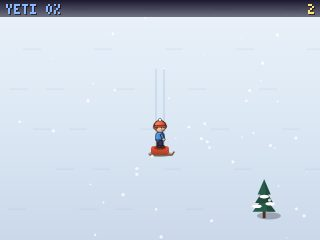
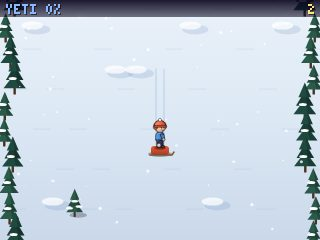
Round 31 batch 3 (v74): cabinet reel, calmer Arcade glow, Yeti Escape forest and moguls
Claude-Session: https://claude.ai/code/session_01ThWvxu2oGGko6tXgypc1y8

diff --git a/sw.js b/sw.js
@@ -1,5 +1,5 @@
 // Pixel Arcade service worker: installable app + offline play. Generated from sw.template.js by tools/make_pwa.py.
-const VERSION = '36d4cc078b';
+const VERSION = 'e4e1be4010';
 const CORE = ["./", "index.html", "manifest.webmanifest", "style.css", "docs/icons/apple-touch-icon.png", "docs/icons/favicon-64.png", "docs/icons/icon-1024.png", "docs/icons/icon-192.png", "docs/icons/icon-512.png", "docs/icons/maskable-512.png", "fonts/OFL-Anton.txt", "fonts/OFL-AtkinsonHyperlegibleNext.txt", "fonts/OFL-JetBrainsMono.txt", "fonts/anton-400.woff2", "fonts/atkinson-next-400.woff2", "fonts/atkinson-next-700.woff2", "fonts/atkinson-next-800.woff2", "fonts/fonts.css", "fonts/jetbrains-mono-400.woff2", "fonts/jetbrains-mono-700.woff2", "fonts/pa-pixel.woff2", "games/action.js", "games/action2.js", "games/action3.js", "games/advanced1.js", "games/advanced2.js", "games/arcade4.js", "games/arcade5.js", "games/board2.js", "games/cards.js", "games/classics1.js", "games/classics2.js", "games/classics3.js", "games/classics4.js", "games/finale.js", "games/frontier.js", "games/misc6.js", "games/more.js", "games/orchard.js", "games/party.js", "games/popular1.js", "games/popular2.js", "games/popular3.js", "games/popular4.js", "games/popular5.js", "games/powerup.js", "games/puzzle.js", "games/puzzle2.js", "games/puzzle3.js", "games/puzzle4.js", "games/puzzle5.js", "games/retro4.js", "games/retro5.js", "games/roadside.js", "games/rush.js", "games/saga.js", "games/seasons.js", "games/sim.js", "games/skyway.js", "games/solo.js", "games/space1.js", "games/sports1.js", "games/sports2.js", "games/sports3.js", "games/sports4.js", "games/sports5.js", "games/sports6.js", "games/tabletop.js", "games/threed.js", "games/threed2.js", "games/threed3.js", "games/threed4.js", "games/threed5.js", "games/townsfolk.js", "games/versus2.js", "games/versus3.js", "games/versus4.js", "games/versus5.js", "games/voyage.js", "js/arcade-scene.js", "js/cabinet3d.js", "js/carts.js", "js/console.js", "js/fx.js", "js/fx3d.js", "js/gx.js", "js/intro.js", "js/lobby.js", "js/net.js", "js/sfxbank.js", "js/spot.js", "js/engine/00-core.js", "js/engine/01-draw.js", "js/engine/02-pseudo3d.js", "js/engine/03-person.js", "js/engine/04-audio.js", "js/engine/05-fx.js", "js/engine/06-input.js", "js/engine/07-session.js", "js/engine/08-scores.js", "js/engine/09-clock.js", "js/engine/10-cards.js", "js/engine/11-loop.js", "js/engine/12-hub.js", "js/engine/13-filter.js", "js/kit3d/audio.js", "js/kit3d/input.js", "js/kit3d/paint.js", "js/kit3d/place.js", "js/kit3d/reflect.js", "js/kit3d/score.js", "js/kit3d/ui.js", "sfx/LICENSE.txt", "sfx/back_001.mp3", "sfx/blaster.mp3", "sfx/blaster_repeater.mp3", "sfx/break.mp3", "sfx/click_001.mp3", "sfx/coin.mp3", "sfx/confirmation_001.mp3", "sfx/confirmation_002.mp3", "sfx/confirmation_003.mp3", "sfx/confirmation_004.mp3", "sfx/drop_001.mp3", "sfx/enemy_destroy.mp3", "sfx/enemy_hurt.mp3", "sfx/engine.mp3", "sfx/error_003.mp3", "sfx/error_005.mp3", "sfx/error_006.mp3", "sfx/explosion_crunch_000.mp3", "sfx/explosion_crunch_001.mp3", "sfx/explosion_crunch_002.mp3", "sfx/explosion_crunch_003.mp3", "sfx/footstep_concrete_000.mp3", "sfx/footstep_concrete_001.mp3", "sfx/footstep_concrete_002.mp3", "sfx/footstep_concrete_003.mp3", "sfx/footstep_grass_000.mp3", "sfx/footstep_grass_001.mp3", "sfx/footstep_grass_002.mp3", "sfx/footstep_grass_003.mp3", "sfx/force_field_000.mp3", "sfx/glass_002.mp3", "sfx/impact.mp3", "sfx/impact_generic_light_000.mp3", "sfx/impact_generic_light_001.mp3", "sfx/impact_glass_medium_000.mp3", "sfx/impact_metal_heavy_000.mp3", "sfx/impact_metal_heavy_001.mp3", "sfx/impact_metal_heavy_002.mp3", "sfx/impact_metal_light_000.mp3", "sfx/impact_plate_light_000.mp3", "sfx/impact_punch_medium_000.mp3", "sfx/impact_punch_medium_001.mp3", "sfx/impact_punch_medium_002.mp3", "sfx/impact_soft_heavy_000.mp3", "sfx/impact_soft_heavy_001.mp3", "sfx/impact_wood_heavy_000.mp3", "sfx/jump.mp3", "sfx/jump_a.mp3", "sfx/jump_b.mp3", "sfx/jump_c.mp3", "sfx/land.mp3", "sfx/laser_retro_000.mp3", "sfx/laser_retro_001.mp3", "sfx/laser_small_000.mp3", "sfx/laser_small_001.mp3", "sfx/laser_small_002.mp3", "sfx/low_frequency_explosion_000.mp3", "sfx/maximize_001.mp3", "sfx/maximize_002.mp3", "sfx/maximize_003.mp3", "sfx/maximize_004.mp3", "sfx/placement-a.mp3", "sfx/placement-b.mp3", "sfx/pluck_001.mp3", "sfx/select_001.mp3", "sfx/select_002.mp3", "sfx/select_003.mp3", "sfx/skid.mp3", "sfx/switch_002.mp3", "sfx/thruster_fire_000.mp3", "sfx/tick_001.mp3", "sfx/tick_002.mp3", "sfx/tile-match.mp3", "sfx/tile-swap.mp3", "sfx/toggle_001.mp3", "sfx/weapon_change.mp3"];
 const SHELL = 'pa-shell-' + VERSION, RUNTIME = 'pa-runtime';
 self.addEventListener('install', e => {

diff --git a/games/frontier.js b/games/frontier.js
@@ -324,7 +324,11 @@ A.add({id:'yetiescape',name:'YETI ESCAPE',cat:'CLASSICS',tags:'sled snow downhil
    else if(Math.abs(o.x-x)<(o.k==='t'?9:8)*(o.s||1)&&Math.abs(o.y-148)<8){o.hit=1;S('hit');A.shake=5;yeti+=34;spd=1;vx=-vx;fx.debris(x,148,'#ffffff',12,2);fx.pop(x,130,'CRASH!','#ff8a7a');}}
   ob=ob.filter(o=>o.y>-30);yeti=Math.max(-60,yeti-.04);g.score+=t%20===0?1:0;if(yeti>120){g.over='CAUGHT BY THE YETI';S('lose');}
   trail.unshift(x);if(trail.length>40)trail.pop();for(const f of flk){f.y-=spd*.3*f.s-1;f.x+=Math.sin(t*.02+f.s)*.4;if(f.y>H)f.y=0;if(f.y<0)f.y=H;}};
- g.draw=()=>{const c=A.c;X.vg(0,0,W,H,['#eaf2fa','#dce8f4','#cad8ea']);const o=(t*spd)%40;c.fillStyle='rgba(150,180,210,.18)';for(let i=-1;i<8;i++)for(let k=0;k<5;k++)c.fillRect((k*71+i*23)%W,i*40-o+20,18,1.2);
+ g.draw=()=>{const c=A.c;X.vg(0,0,W,H,['#eaf2fa','#dce8f4','#cad8ea']);const o=(t*spd)%40,dd=t*spd;c.fillStyle='rgba(150,180,210,.18)';for(let i=-1;i<8;i++)for(let k=0;k<5;k++)c.fillRect((k*71+i*23)%W,i*40-o+20,18,1.2);
+  // moguls: soft lit bumps with blue shadow sides, scrolling with the slope
+  if(lo())for(let i=-1;i<7;i++){const row=Math.floor(dd/44)+i,y=i*44-(dd%44)+30;for(let k=0;k<4;k++){const hx=hash(row,k),mx=30+hx*(W-60);if(hash(k,row)<.45)continue;X.ell(mx+3,y+3,13,5,'rgba(120,150,200,.22)');X.ell(mx-2,y-1,11,4,'rgba(255,255,255,.75)');}}
+  // pine forest walls down both edges, darker and denser further out
+  const edge=(side)=>{for(let i=-1;i<11;i++){const row=Math.floor(dd/26)+i,y=i*26-(dd%26)+10,hx=hash(row,side*7+3);const ex=side<0?4+hx*12:W-4-hx*12;pine(ex,y+20,26+hx*10,hx>.5?'#1f4a40':'#2a5a4a');X.ell(ex-2,y+4,4,1.5,'#ffffff');}};if(lo()){edge(-1);edge(1);}
   c.strokeStyle='rgba(140,170,210,.45)';c.lineWidth=1;for(const off of[-4,4]){c.beginPath();trail.forEach((tx,i)=>{const y=148-i*spd;i?c.lineTo(tx+off,y):c.moveTo(tx+off,y);});c.stroke();}
   for(const o of ob){if(o.k==='f'){for(const fx2 of[o.x,o.x+50]){X.rr(fx2,o.y-14,1.4,14,0,'#3a3a3a');X.poly([[fx2+1,o.y-14],[fx2+9,o.y-11],[fx2+1,o.y-8]],o.pass?'#7dff9a':'#ff4a4a');}}else if(o.k==='t'){c.save();c.translate(o.x,o.y);c.scale(o.s,o.s);X.shadow(4,2,10,3,.25);pine(0,4,30,'#2a5a4a');for(const[a,b]of[[-6,-6],[0,-14],[5,-8]])X.ell(a,b,4,1.5,'#ffffff');c.restore();}else{X.shadow(o.x+2,o.y+3,8*o.s,2.5,.25);X.disc(o.x,o.y,6*o.s,X.rg(o.x-2,o.y-2,1,o.x,o.y,6*o.s,['#9aa0aa','#6a7080','#4a5060']));X.ell(o.x,o.y-4*o.s,5*o.s,2,'#ffffff');}}
   c.save();c.translate(x,148);c.rotate(vx*.08);X.shadow(0,6,12,3,.3);X.rr(-9,-2,18,9,3,X.lg(0,-2,0,7,['#e85a3a','#a83a24']));X.stroke([[-10,7],[12,7],[14,4]],'#7a5430',1.4);hero(0,0,{s:.85,top:'#3a8ad8',bot:'#2a2a4a',hat:'beanie',hatC:'#ff6a3a',style:4,hair:'#c86a2a',seed:12,bob:0,arm:-.4,mood:yeti>60?'o':'happy'});c.restore();

diff --git a/js/engine/13-filter.js b/js/engine/13-filter.js
@@ -76,10 +76,10 @@ function arcade(){const c=A.c,cv=c.canvas,w=cv.width,h=cv.height;if(!w||!h)retur
   fx.globalCompositeOperation='source-over';c.globalCompositeOperation='lighter';c.globalAlpha=.16;const d=Math.max(1,w/640);c.drawImage(fr,d,0,w,h);
   fx.globalCompositeOperation='copy';fx.drawImage(cv,0,0,320,240);fx.globalCompositeOperation='multiply';fx.fillStyle='#0038ff';fx.fillRect(0,0,320,240);c.globalAlpha=.12;c.drawImage(fr,-d,0,w,h);fx.globalCompositeOperation='source-over';}
  // halation: a blurred bright-pass of the picture, screened back over it
- gx.globalCompositeOperation='copy';if('filter' in gx){gx.filter='brightness(.9) contrast(1.9) blur(3px)';gx.drawImage(cv,0,0,160,120);gx.filter='none';}
+ gx.globalCompositeOperation='copy';if('filter' in gx){gx.filter='brightness(.72) contrast(2.6) blur(3px)';gx.drawImage(cv,0,0,160,120);gx.filter='none';}
  else{gx.drawImage(cv,0,0,40,30);gx.drawImage(glow,0,0,40,30,0,0,160,120);}
  gx.globalCompositeOperation='multiply';gx.drawImage(glow,0,0);gx.globalCompositeOperation='source-over';
- c.globalCompositeOperation='screen';c.globalAlpha=A.gfx==='low'?.55:.85;c.drawImage(glow,0,0,w,h);
+ c.globalCompositeOperation='screen';c.globalAlpha=A.gfx==='low'?.5:.75;c.drawImage(glow,0,0,w,h);
  c.globalCompositeOperation='source-over';c.globalAlpha=1;if(A.gfx!=='off')warp(c,cv,w,h);c.drawImage(mask,0,0);c.restore();}
 const RUN={arcade,pocket,eight,print,ascii};
 A.screenFilter=()=>{if(A.filter==='clean'||typeof document==='undefined'||!A.c||!A.c.canvas||!A.c.getImageData||!A.c.canvas.getContext)return;try{RUN[A.filter]();}catch(e){}};

diff --git a/README.md b/README.md
@@ -187,6 +187,8 @@ Real-time 3D in the browser: shadows, ambient occlusion, bloom, filmic colour, a
 
 ## 🕹 544 arcade cabinets
 
+<p align="center"><img src="docs/readme/cabinets-reel.webp" width="640" alt="A reel of twelve cabinets on the Arcade screen: Block Drop, Munch Maze, Invader Wave, Neon Fighters, Xenoshift, Melon Drop, Lighthouse Keeper, Night Market, Bubble Pop, Pinball, Heat Run and Yeti Escape, each on a curved tube with scanlines and glow"></p>
+
 <img src="docs/readme/wall.jpg" alt="A wall of arcade cabinets">
 
 Classic arcade, sports, board games with real CPU search, puzzles, cards, party games and sims, all drawn in HD (high definition) with particles, screen shake and plenty of juice. Play the CPU at three difficulties, or grab a friend for 2-player.
@@ -285,23 +287,24 @@ The arcade now ships **76 recorded sound effects** (560 KB, stored in [`sfx/`](s
 Where the arcade is heading: every release, and which 3D worlds have had the realism pass (physically based materials, real lighting, detailed models and effects, plus deeper gameplay). Generated by `tools/gen_docs.py` from the game registry and [`docs/progress.json`](docs/progress.json), so the counts can't go stale.
 
 <!-- gen:progress (generated by tools/gen_docs.py) -->
-![latest](https://img.shields.io/badge/latest-v73-2443ff?style=flat-square) ![realism](https://img.shields.io/badge/realism_pass-13%2F56_worlds-f2f2f2?style=flat-square)
+![latest](https://img.shields.io/badge/latest-v74-2443ff?style=flat-square) ![realism](https://img.shields.io/badge/realism_pass-13%2F56_worlds-f2f2f2?style=flat-square)
 
 **`█████░░░░░░░░░░░░░░░` 13 of 56 full-3D worlds have had the realism pass (23%).**
 
 | Release | Date | Branch | Games | 3D | What it added |
 |---|---|---|---|---|---|
+| **v74** | 10 Nov 2026 | `round31` | 600 | 56 | A README reel of twelve cabinets on the Arcade screen, a calmer Arcade glow for pale games, and Yeti Escape redrawn with forest walls and lit moguls. |
 | **v73** | 10 Nov 2026 | `round31` | 600 | 56 | Gloss Riot's skyline becomes real buildings (window facades with glossy glass, rooftop tanks, awnings) with palms and moored sailboats on the harbour; the 78 round-30 cabinets get their missing shelf screenshots (and CI now checks for them); Corn Maze Night and Snowman are redrawn. |
 | **v72** | 10 Nov 2026 | `round31` | 600 | 56 | An audit and an Arcade screen. Press V in any cabinet for a curved tube monitor with phosphor glow, scanlines, a colour fringe and rounded glass. The README header, social preview and feature grid now show the real counts (600 games, 56 worlds), the docs check catches stale counts in prose, and the README is tidier: one gallery for the four new packs and a folded release history. |
 | **v71** | 10 Nov 2026 | `round30` | 600 | 56 | Round 30 reaches 600 games. Four new canvas packs (Frontier, Voyage, Townsfolk and Four Seasons, 78 cabinets) share a new outlined character kit, and a new full-3D world, Summit Rush, races snowboarders down a golden-hour valley. Earlier in the round: a CC0 sound bank, five screen filters, textured retro-3D walls and a showroom colour grade for every 3D world. |
 | **v70** | 10 Nov 2026 | `round30` | 581 | 56 | The Townsfolk pack: 20 cabinets about the people who keep a town running, from the bakery and the forge to the lamplighter, the fire brigade, the bus and a cheese roll down a hill. |
 | **v69** | 9 Nov 2026 | `round30` | 561 | 56 | The Voyage pack: 20 cabinets that travel the world, with caravans, rickshaws, husky sleds, cable cars, balloons, a longship race and a night at the museum. |
-| **v68** | 9 Nov 2026 | `round30` | 541 | 56 | The Frontier pack: 20 cabinets built on a new outlined character kit (blinking chibi people, hats, hair, outfits, creatures and scenery), from a storm lighthouse to a yeti chase. |
 
-<details><summary><b>Earlier releases</b> (32 more, back to v29)</summary>
+<details><summary><b>Earlier releases</b> (33 more, back to v29)</summary>
 
 | Release | Date | Branch | Games | 3D | What it added |
 |---|---|---|---|---|---|
+| **v68** | 9 Nov 2026 | `round30` | 541 | 56 | The Frontier pack: 20 cabinets built on a new outlined character kit (blinking chibi people, hats, hair, outfits, creatures and scenery), from a storm lighthouse to a yeti chase. |
 | **v67** | 9 Nov 2026 | `round30` | 521 | 55 | Showroom finish: every full-3D world gets vibrance, teal-and-gold split toning and clarity in one shared grade; Night Drive streets are sunlit instead of black; Firefly and Word Guess are repainted. |
 | **v66** | 9 Nov 2026 | `round30` | 521 | 55 | Textured retro-3D walls (stone, riveted metal and brick generated in code) for Dungeon 3D and Strike Zone 3D, a synthwave horizon in Hover Tank 3D, and README sections for screens and sound. |
 | **v65** | 9 Nov 2026 | `round30` | 521 | 55 | Screen filters for every cabinet (key V): Pocket handheld green, 8-colour micro, Print photocopy and ASCII art, applied under the clock and menus so text stays sharp. |

diff --git a/CHANGELOG.md b/CHANGELOG.md
@@ -4,6 +4,12 @@ Release numbers follow the commit history on GitHub. Numbers that are missing fr
 
 ## Unreleased (on branch `round31`)
 
+### Round 31, batch 3 (v74): a cabinet reel, a calmer Arcade glow and a deeper Yeti Escape
+- **README:** a new animated reel of twelve cabinets played on the Arcade screen opens the cabinets section.
+- **Arcade screen:** the phosphor glow now only picks up genuinely bright things, so pale games (Melon Drop, the snow games) no longer wash out.
+- **Yeti Escape:** pine forest walls scroll down both edges of the slope and lit moguls with blue shadows dot the run; its shelf screenshot is re-rendered.
+- **Survey:** all 544 cabinet screenshots were checked on contact sheets; the remaining sparse-looking ones (Ping Bounce, Trails, Territory) are minimal by design.
+
 ### Round 31, batch 2 (v73): a real skyline for Gloss Riot, 78 missing shelf screenshots, two winter and autumn redraws
 - **Gloss Riot:** the skyline around both arenas was plain coloured blocks. The buildings now have window facades (frames, sills, blinds, glossy glass that reflects the sky), parapets, stair heads, water tanks on legs, air-con units, aerials and shopfront awnings. The harbour map gains 34 palms along the beach and nine moored sailboats that bob on the swell.
 - **Shelf screenshots:** the 78 cabinets added in round 30 (Frontier, Voyage, Townsfolk and Four Seasons) had no hub thumbnail. All are rendered now, and `tools/gen_docs.py` (and so CI) fails if any cabinet is missing one.
